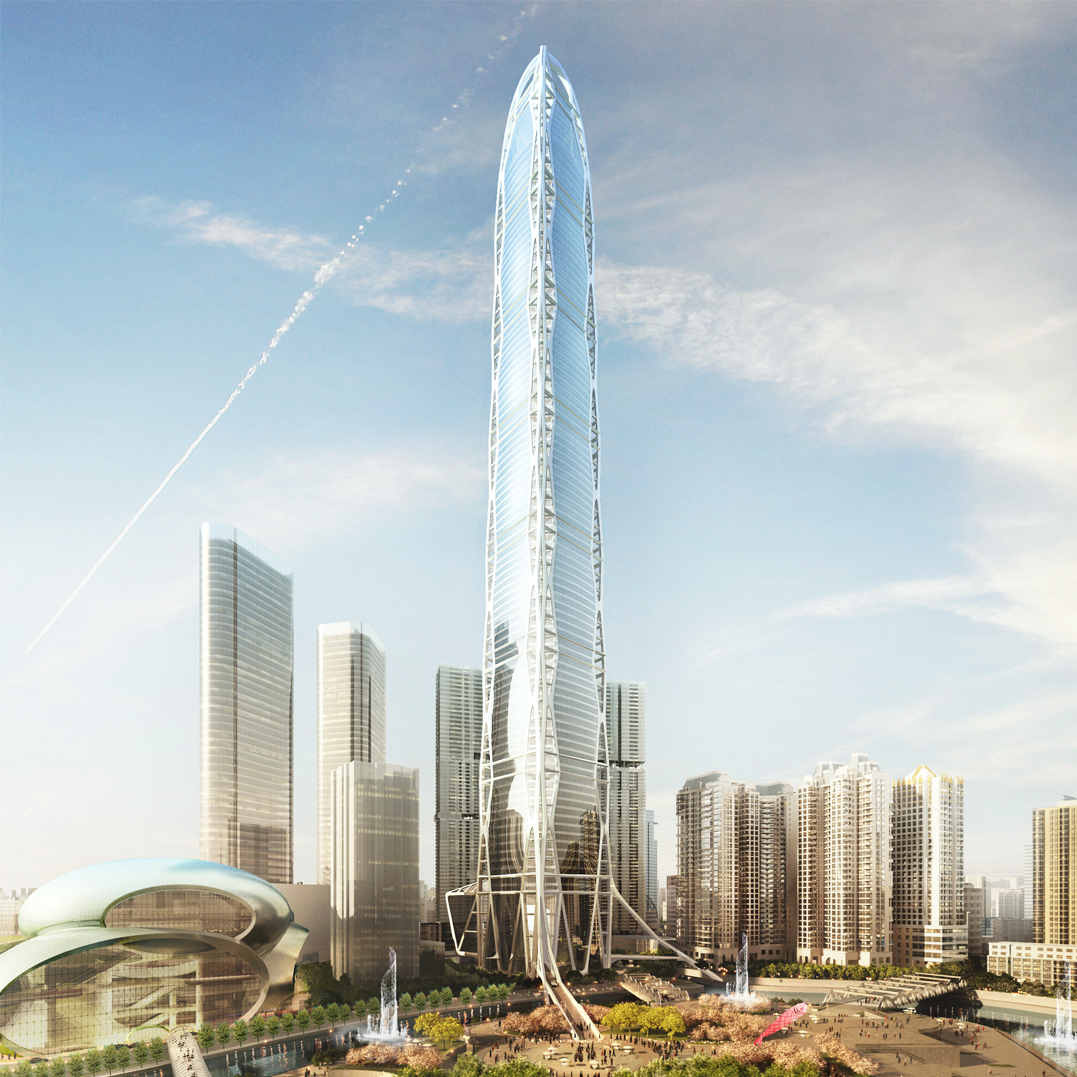
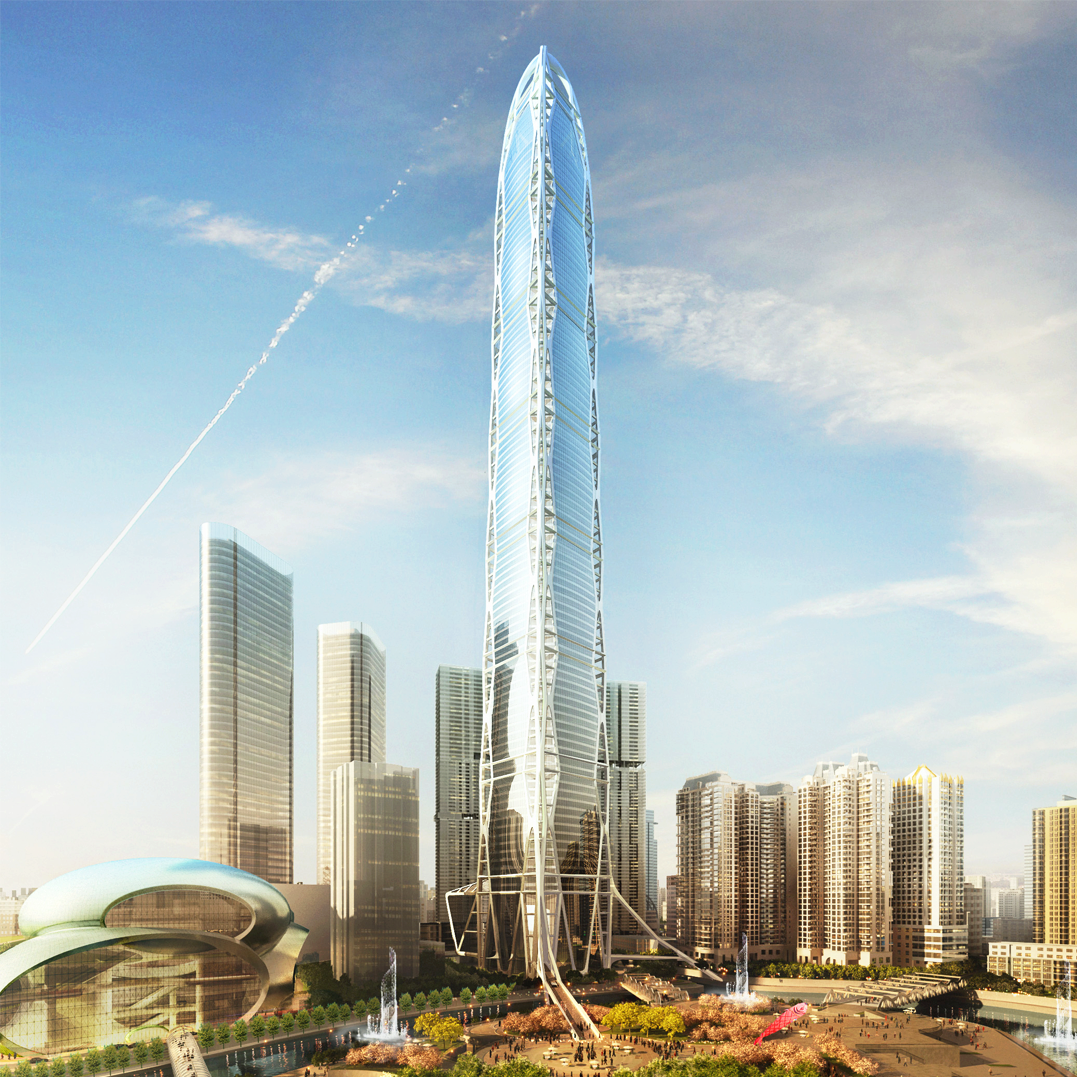
final

diff --git a/contact.html b/contact.html
@@ -95,7 +95,7 @@
         <p style="font-size: 19px !important;font-family: 'HelveticaNeue-UltraLight', 'Helvetica Neue UltraLight', 'Helvetica Neue', 'Roboto',  sans-serif ;>
 <p style="font-size: 20px !important;">
     
-     As an experienced and multifaceted architectural professional, my knowledge expands to all phases of architectural design from conceptual design to construction administration. My work approach emphasizes attention to detail, using in-depth knowledge of architectural design, sustainable materials, project management and construction administration. 
+     As an experienced and multifaceted architectural professional, my expertise expands to all phases of architectural design from conceptual design to construction administration. My work approach emphasizes attention to detail, using in-depth knowledge of architectural design project, sustainable materials, project and construction management.
 </p> 
 
  </div></div></p></div></div></div>
@@ -107,7 +107,7 @@
 <img  src="images/finalcollage3.png" alt="enter" class="center" style="width:100%; padding-bottom: 20px">
 <div  id="circle" class="container">
         <p style="font-size: 15.7px !important;font-family: 'HelveticaNeue-UltraLight', 'Helvetica Neue UltraLight', 'Helvetica Neue', 'Roboto',  sans-serif ;
-padding-top: 18px">More information available upon request.</p>
+padding-top: 18px">CV available upon request.</p>
 
 <div class="container" style="padding-top: 14px;">
     <p>Contact:</h4>

diff --git a/about.html b/about.html
@@ -111,8 +111,9 @@ Construction Management Specialization, Certificate Program, 2021-2022</br>
 <u>Certifications:</u></br></br>
 
 Healthier Building Materials & Sustainable Buildings from Parsons University, Certificate Program, 2021</br> 
-Healthy and Sustainable Affordable Housing from Parsons School of of Design, Program, 2022 </br>
-Renewable Energy and Green Building Entrepreneurship from Duke University, Program, 2021</br>
+Healthy and Sustainable Affordable Housing from Parsons School of of Design, Certificate, 2022</br>
+Renewable Energy and Green Building Entrepreneurship from Duke University, Certificate, 2021</br>
+Sustainable Development from University of Copenhagen, Certificate, 2023</br>
 Project Management Specialization from University of California, Certificate Program, 2021</br>
 International Business Specialization from University of Colorado, Certificate Program, 2022</br>
 OSHA 10 Certified - Training in Construction Safety and Health, 2020-Current</br>

diff --git a/projectwork.html b/projectwork.html
@@ -523,7 +523,7 @@ Software: Rhinceros, AutoCAD, Excel, Photoshop & InDesign. </p>
 <hr>
 <div id="16" class="item">
   <div class="featured-image">
-    <img src="images/13. Wilshire Gayley Tower/gayleyfull.jpg"style="background-image: url(images/loading.gif);" alt="" /> <p style="font-size: 12px; padding-left: 5px;color: #a8a8a8;">Robert A.M. Stern Architects</p> 
+    <img src="images/13. Wilshire Gayley Tower/gayleyfull2.jpg"style="background-image: url(images/loading.gif);" alt="" /> <p style="font-size: 12px; padding-left: 5px;color: #a8a8a8;">Robert A.M. Stern Architects</p> 
   </div> 
          <div class="description" style="  font-family: 'HelveticaNeue-UltraLight', 'Helvetica Neue UltraLight', 'Helvetica Neue', 'Roboto',  sans-serif ;
 ">
